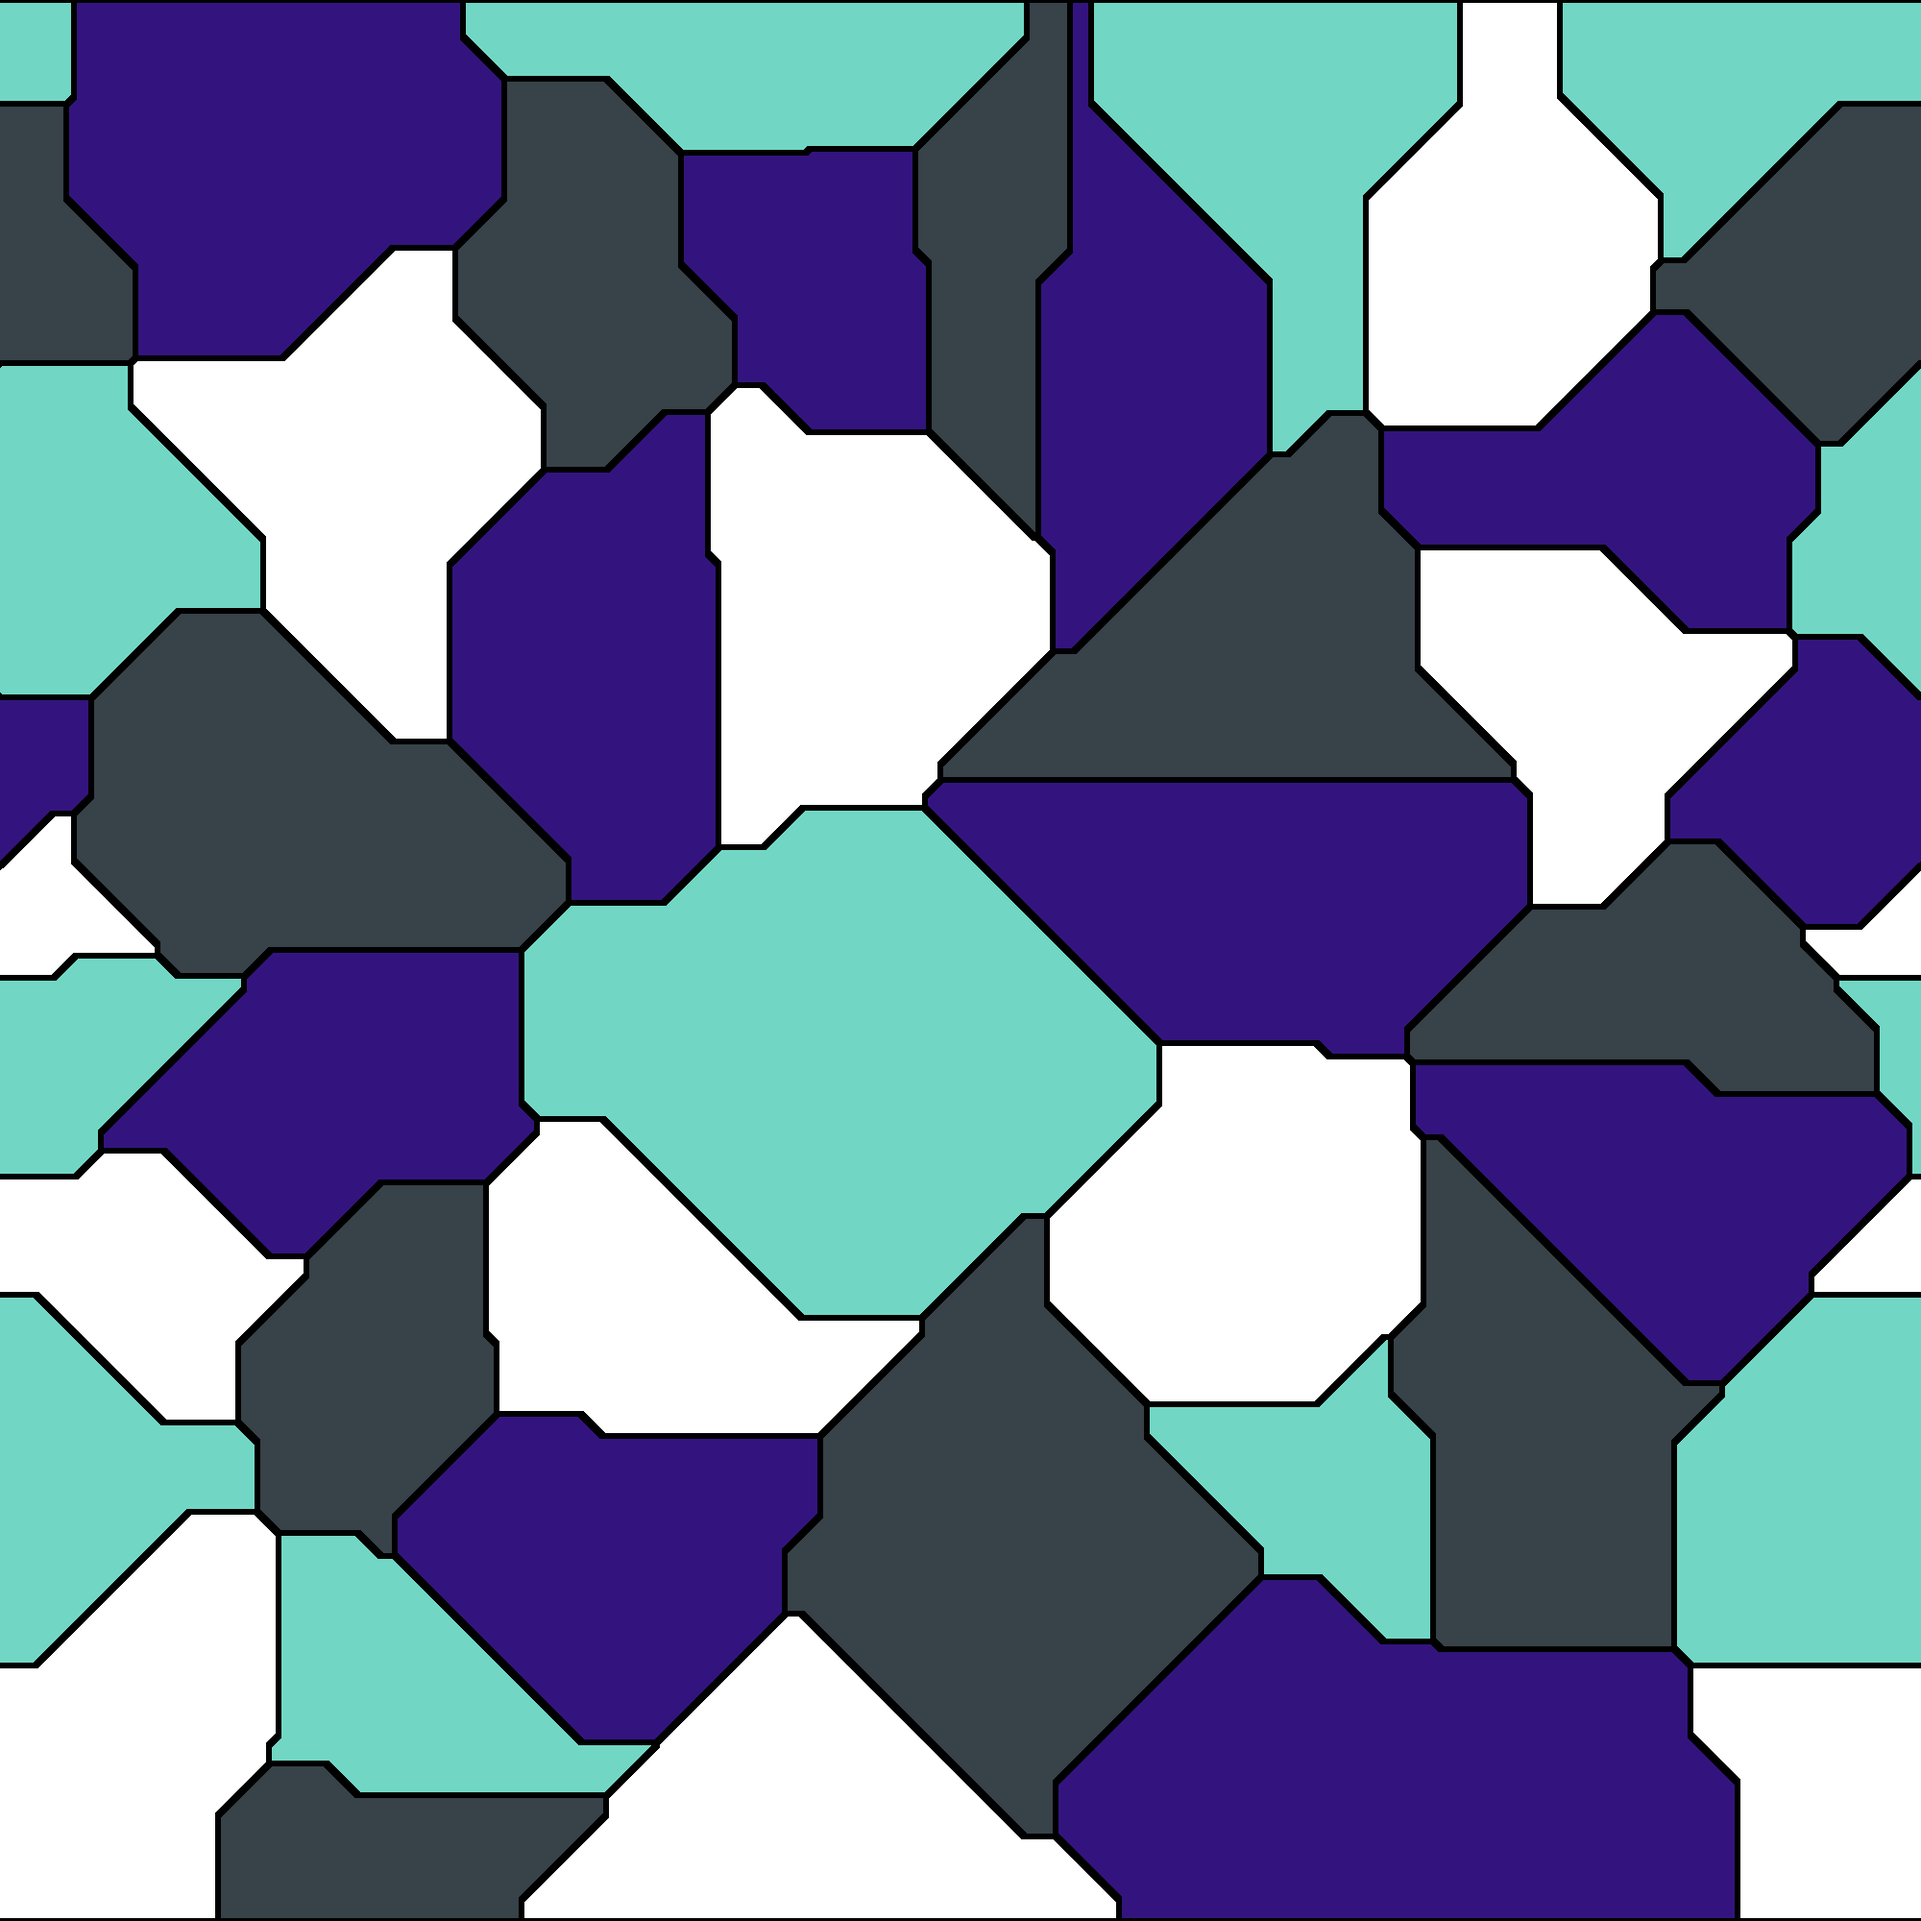
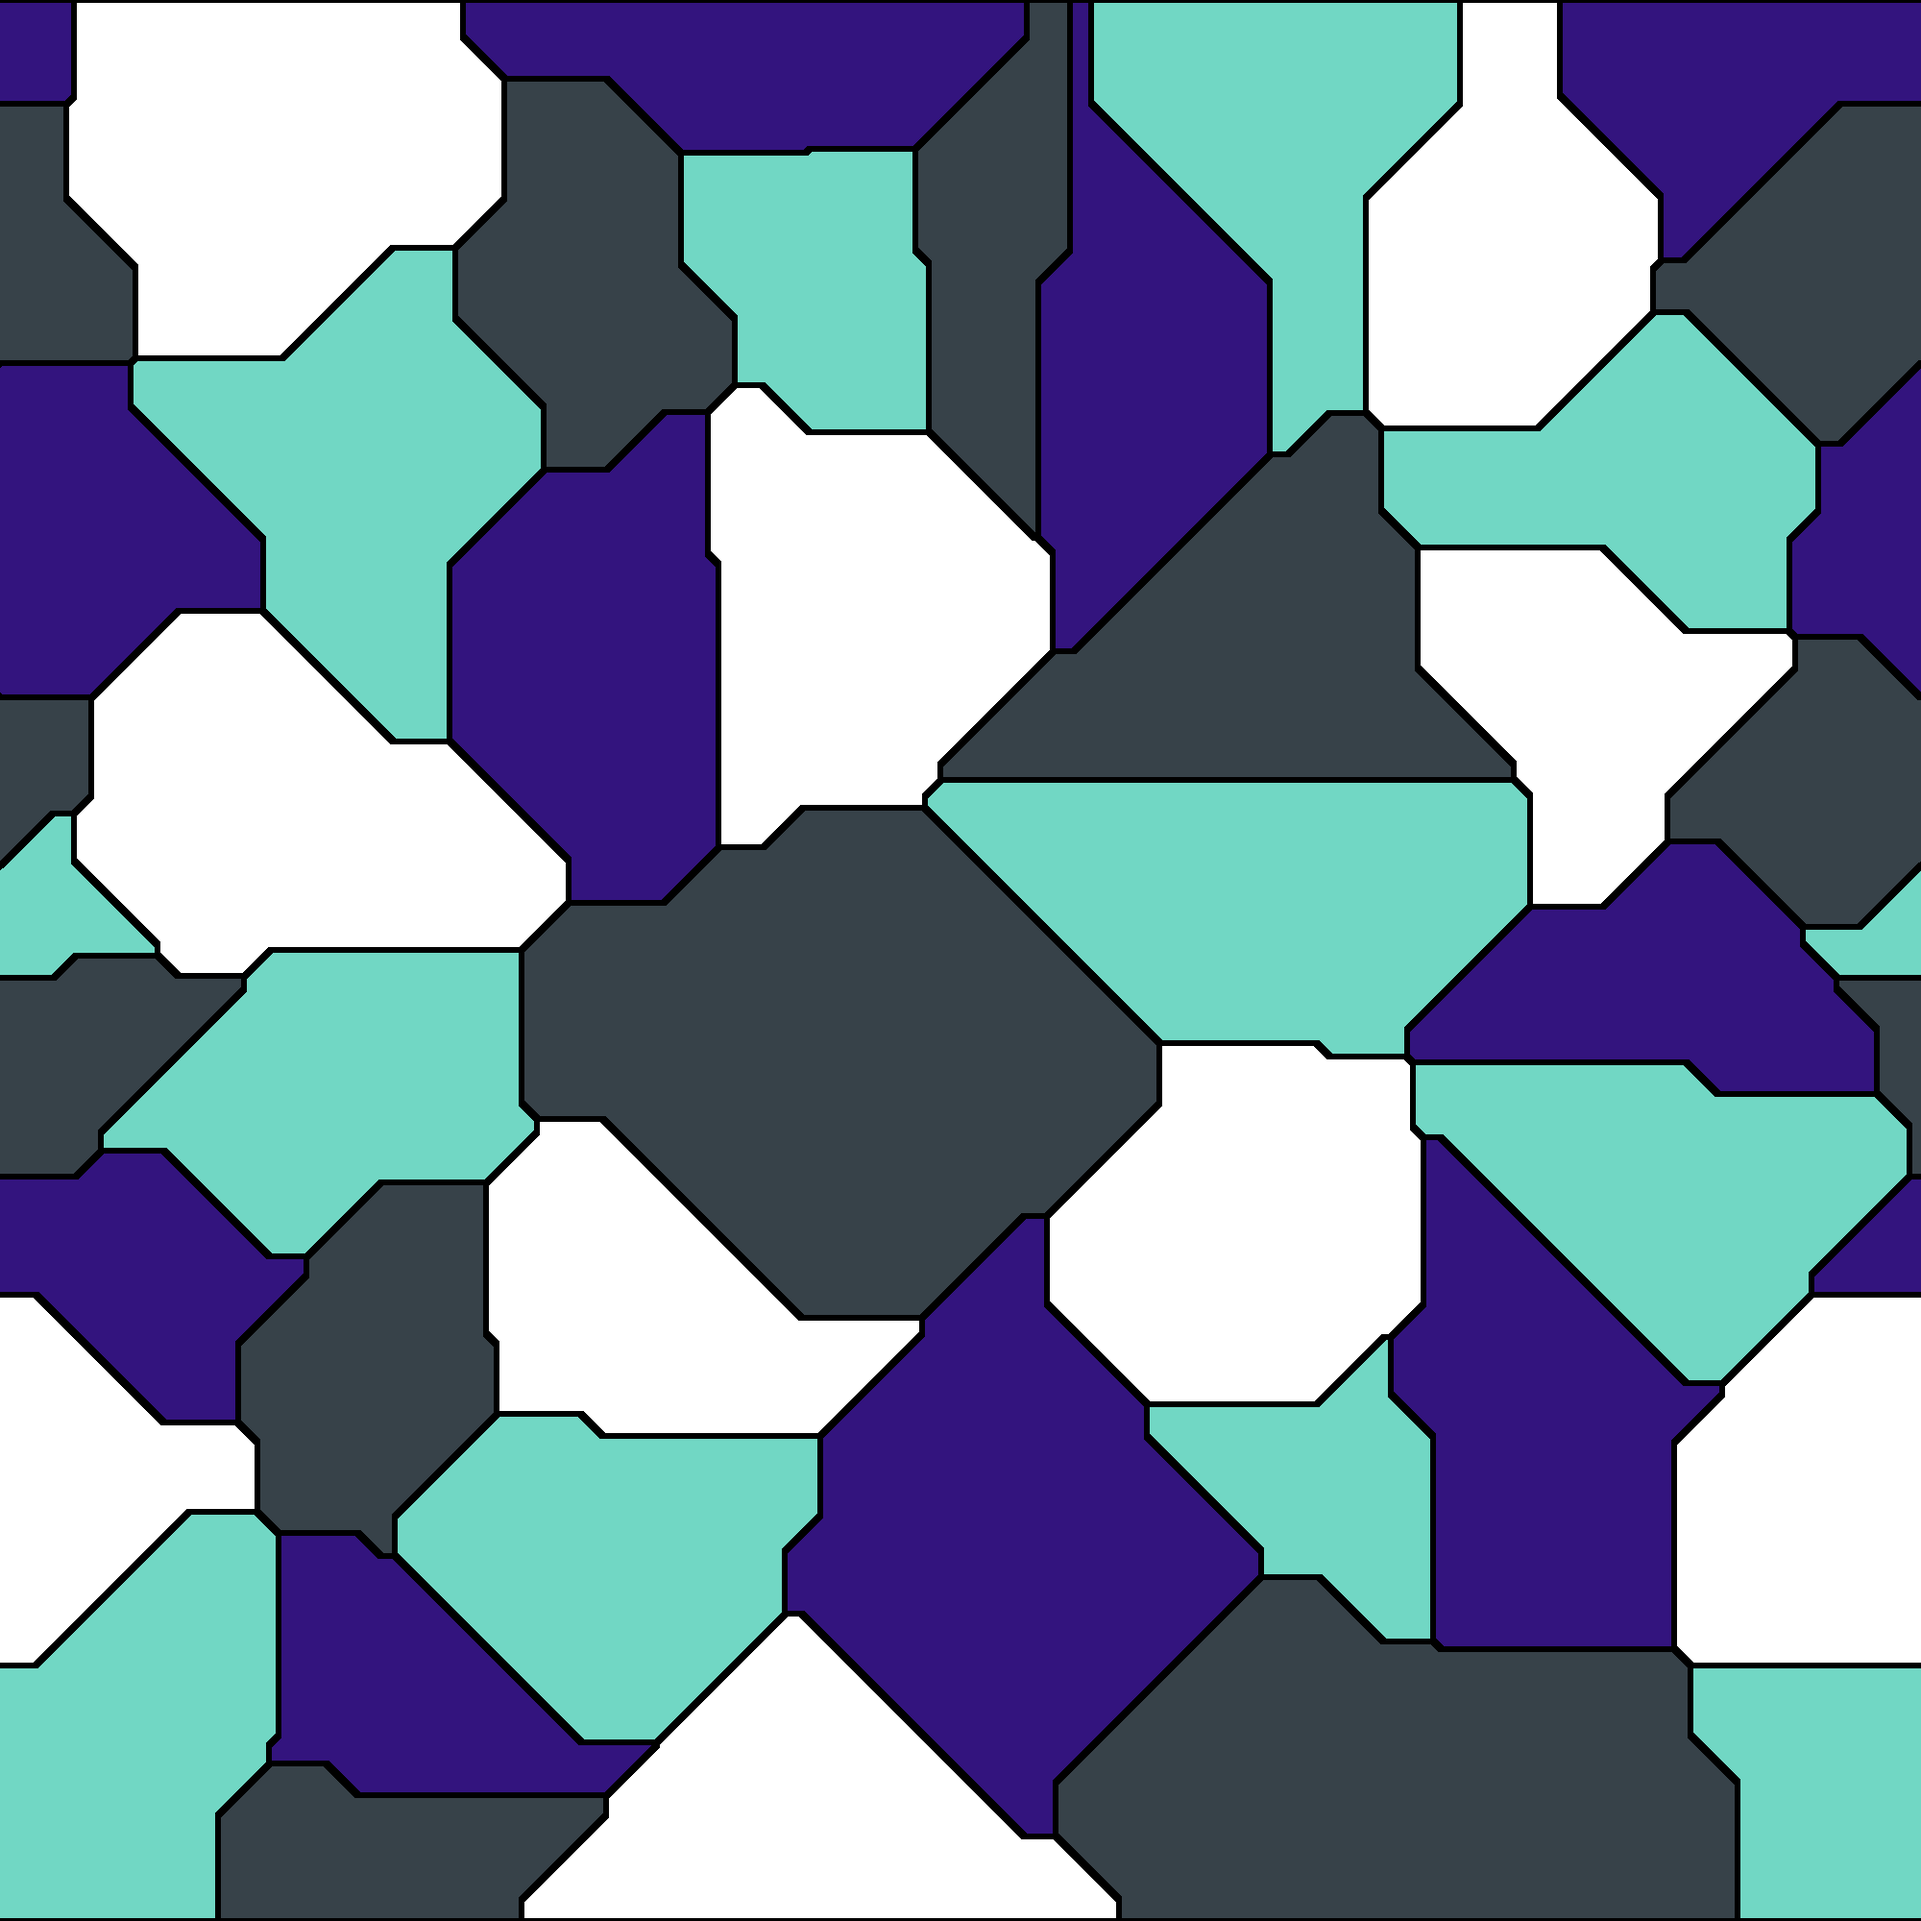
Add new example images

diff --git a/README.md b/README.md
@@ -108,7 +108,7 @@ named_colours_file: "colour_lists/css_colour_list.yaml"
 colour_list: ["lemonchiffon", "tomato", "skyblue", "steelblue"]
 border_thickness: 5
 centroid_thickness:  0
-file_path: "images/demo_4_poisson.png"
+file_path: "images/example_image_3_poisson.png"
 
 sampling_method: "poisson"
 poisson_radius: 0.09
@@ -125,7 +125,7 @@ The resulting images are as follows:
     </tr>
     <tr>
   <td><img src="/images/demo_4_uniform.png" width="400" /></td>
-  <td> <img src="/images/demo_4_poisson.png" width="400" /> </td>
+  <td> <img src="/images/example_image_3_poisson.png" width="400" /> </td>
     </tr>
 </table>
 
